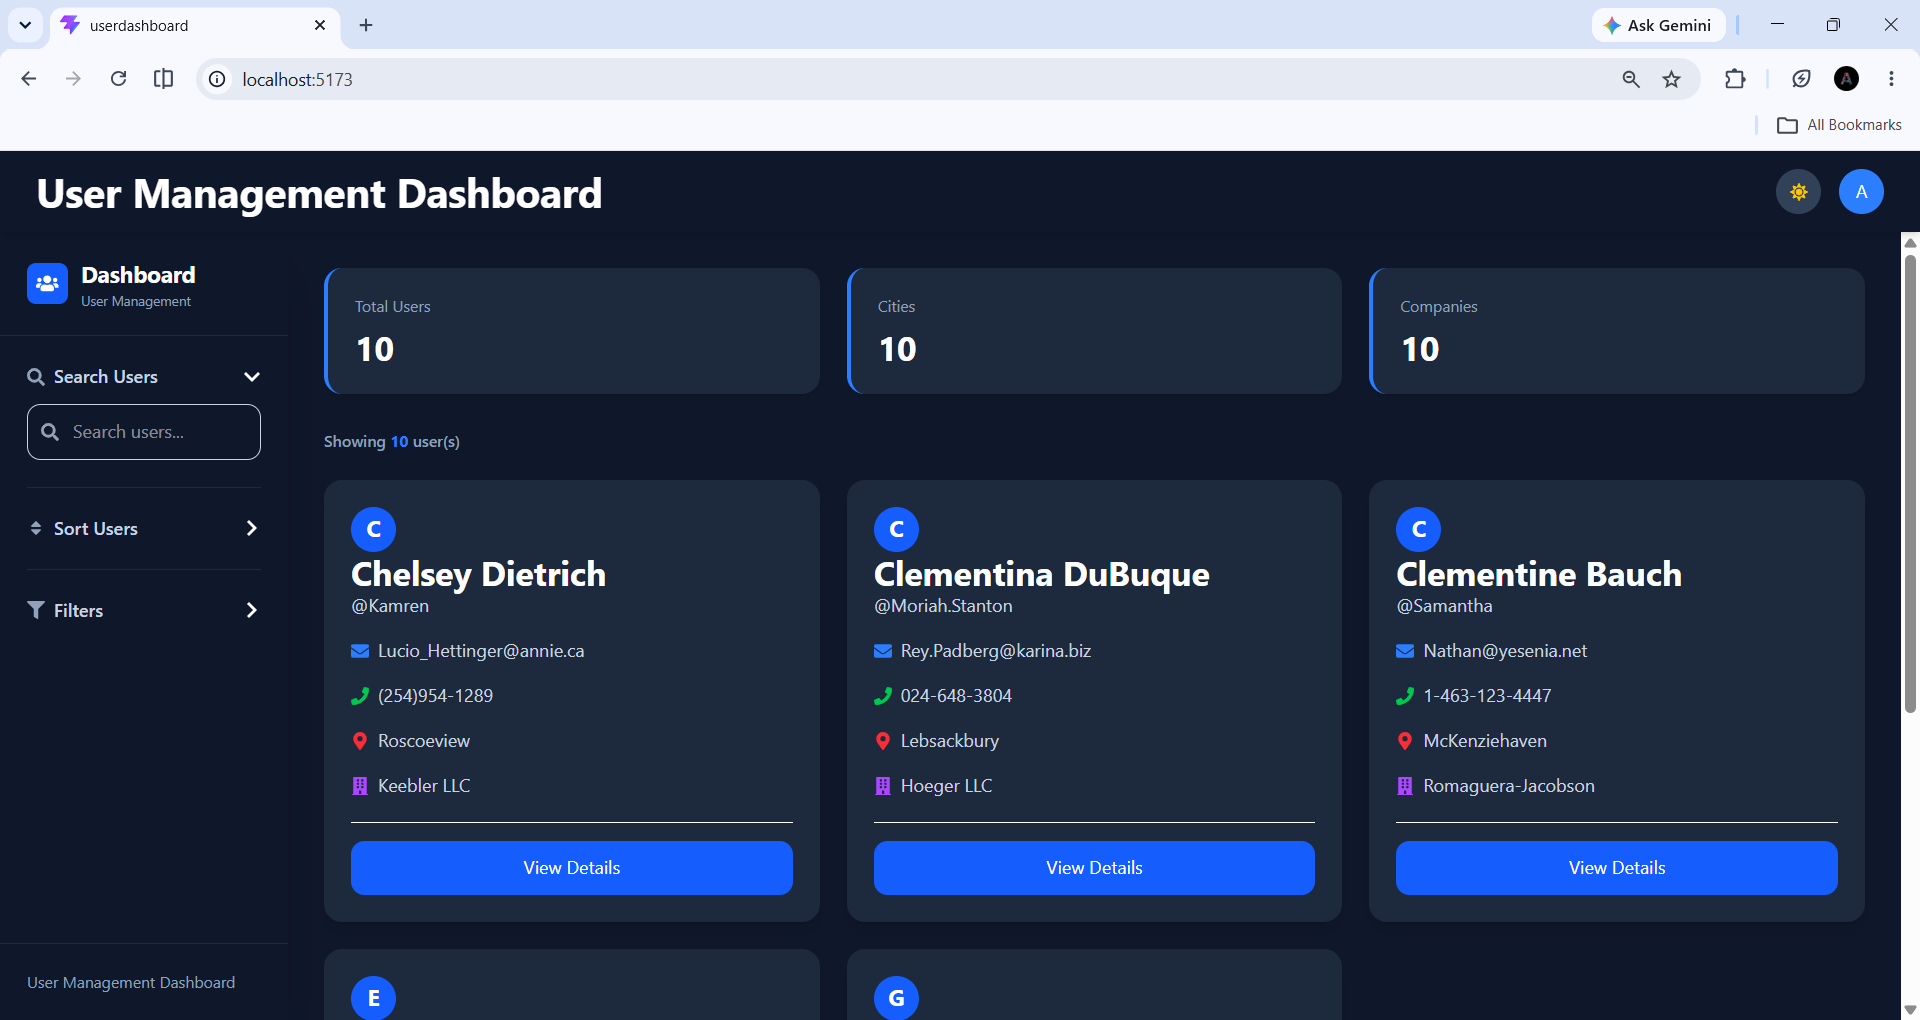
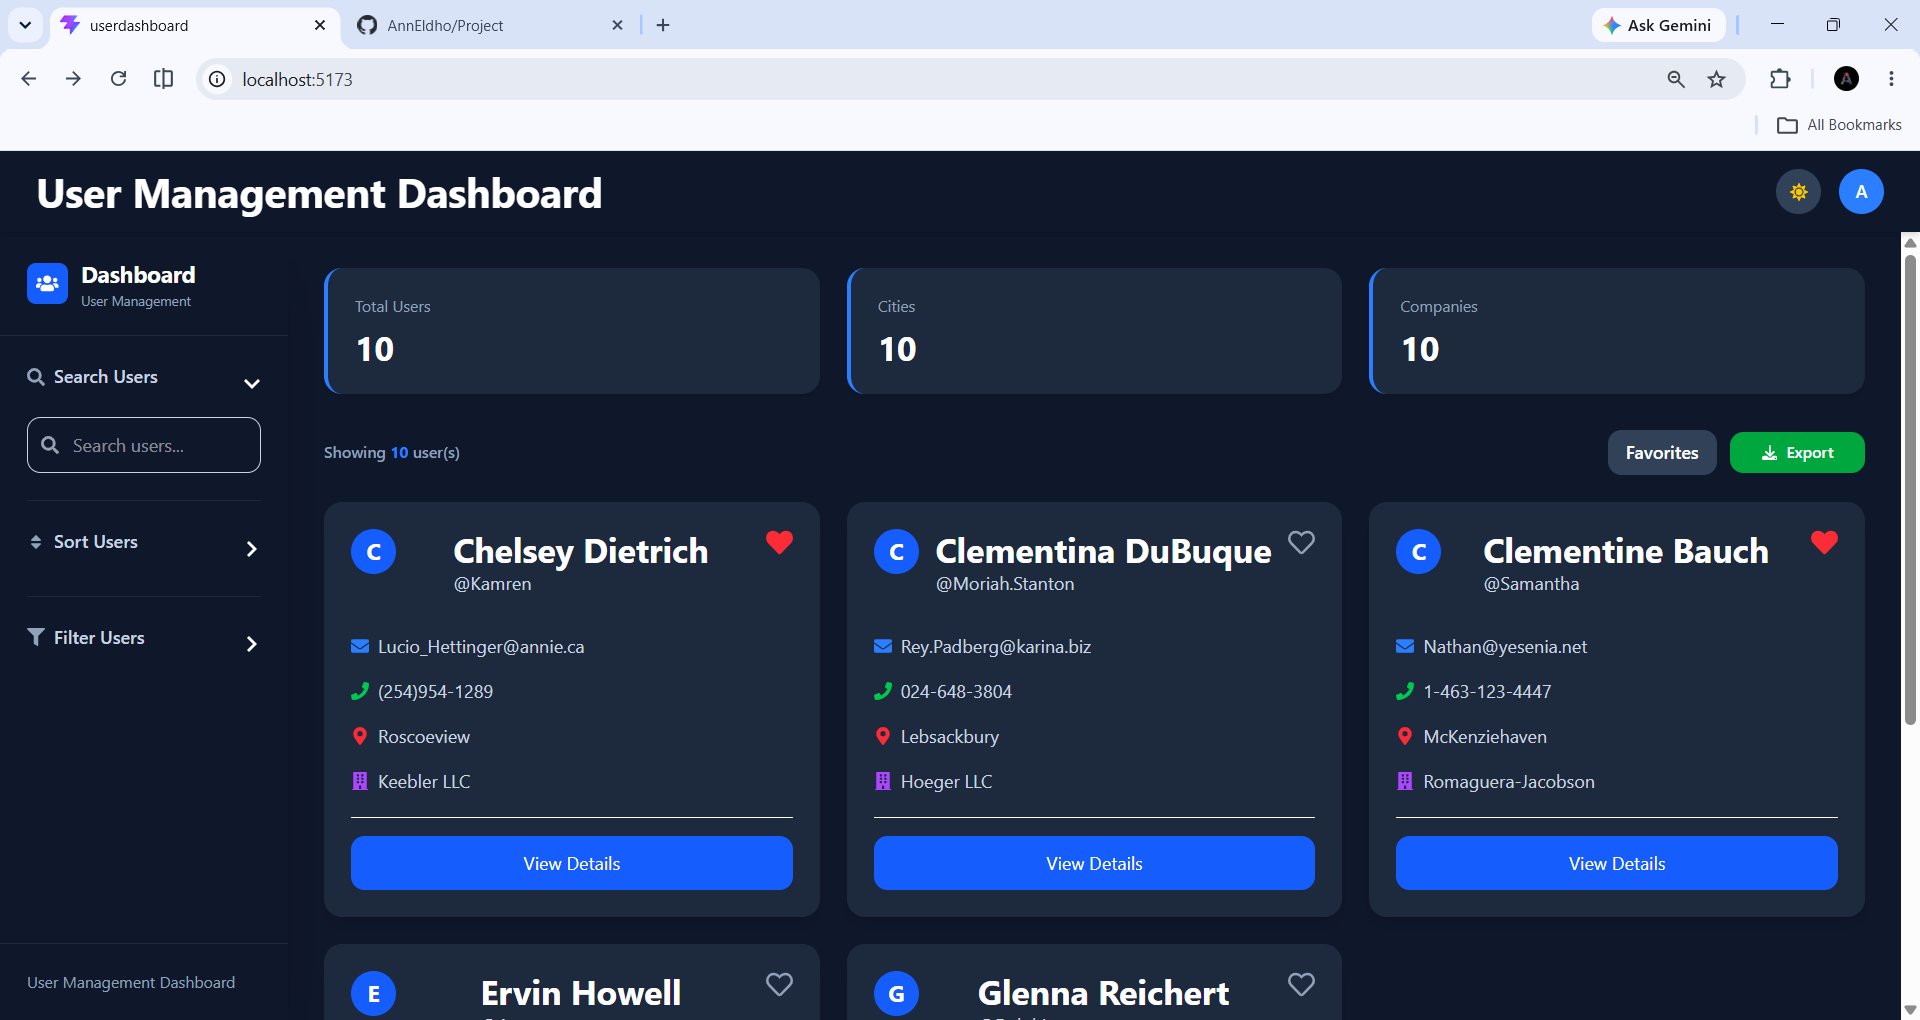
Updated screenshots and doc

diff --git a/README.md b/README.md
@@ -118,9 +118,11 @@ PROJECT/
 
 ![User Detail](./UserDashboard/screenshots/user-detail.png)
 
+### Favorites
+![Favorite](./UserDashboard/screenshots/favorites.png)
 ### Search and Filter
 
-![Search Filter](./UserDashboard/screenshots/filters-search.png)
+![Search Filter](./UserDashboard/screenshots/filter.png.png)
 
 ---
 
